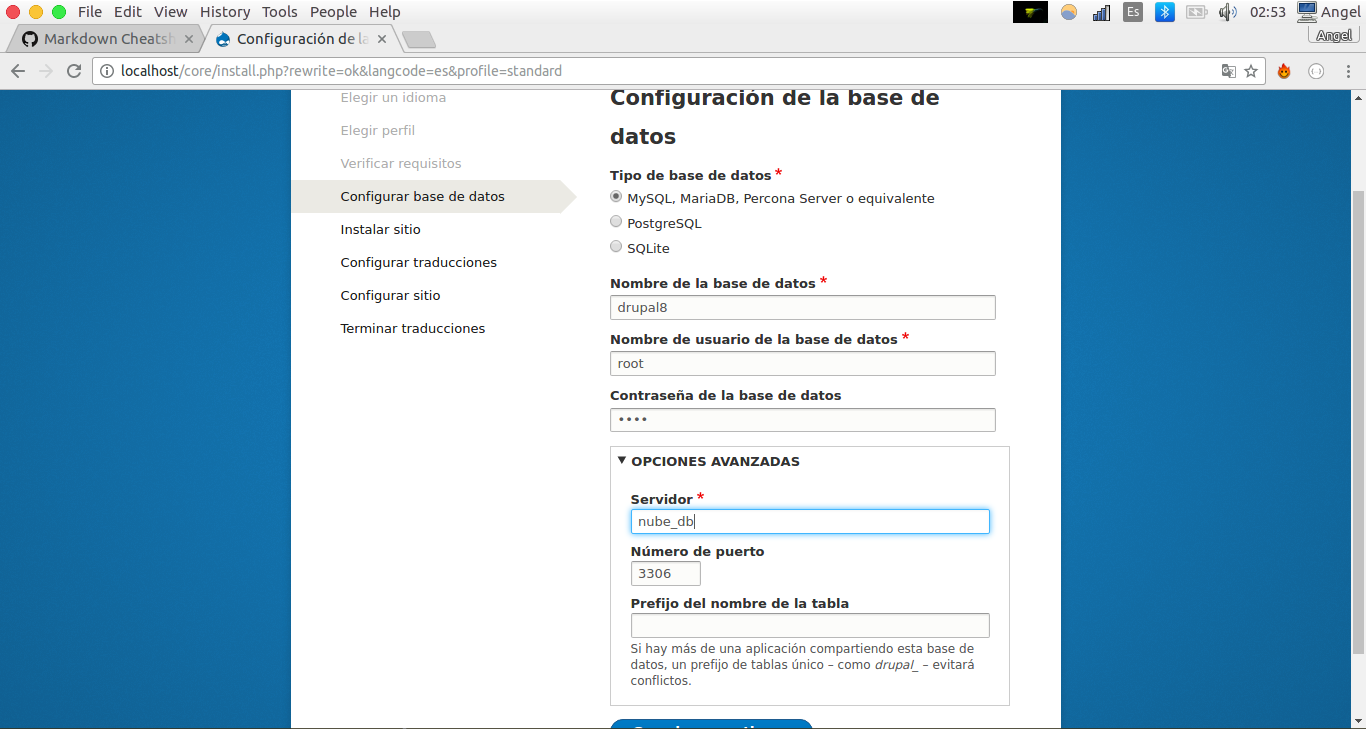
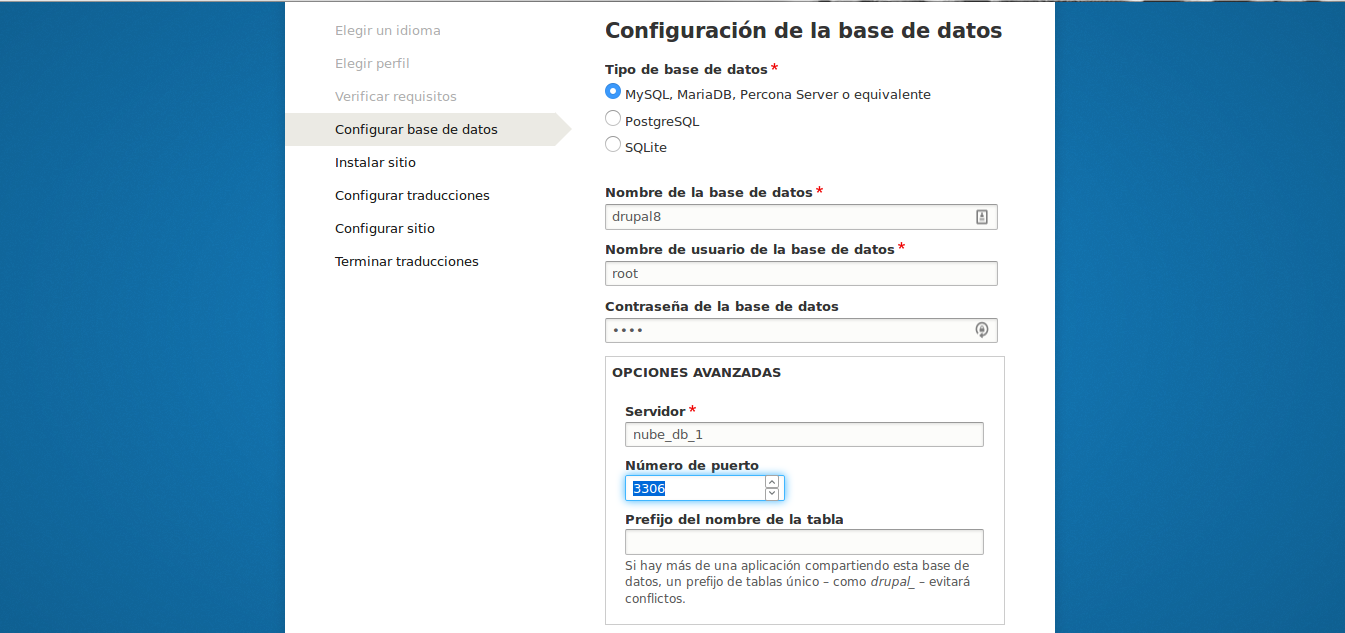
Change readme file

Changed region(s): [[0.0, 0.0, 1.0, 1.0]]

diff --git a/README.md b/README.md
@@ -18,15 +18,31 @@ Drupal development environment using [Docker Compose](https://docs.docker.com/co
 
 1. Run `docker-compose build` please wait a few minutes, docker need download images, and build the new base images.
 
+  ![img_1](https://github.com/anheru88/Drupal8-Docker-Compose/blob/master/images/image_1.png?raw=true)
+
 2. Run `docker-compose up -d` and create the new containers.
+
+  ![img_2](https://github.com/anheru88/Drupal8-Docker-Compose/blob/master/images/image_2.png?raw=true)
 
 3. Run `docker ps` and see the list of containers running in your machine.
 
+  ![img_3](https://github.com/anheru88/Drupal8-Docker-Compose/blob/master/images/image_3.png?raw=true)
+
 4. Visit [`http://localhost`](http://localhost) in your browser.
+
+  ![img_4](https://github.com/anheru88/Drupal8-Docker-Compose/blob/master/images/image_4.png?raw=true)
 
 5. Configure your Drupal Site.
 
-6. Enjoy.
+  ![img_5](https://github.com/anheru88/Drupal8-Docker-Compose/blob/master/images/image_5.png?raw=true)
+
+6. Be sure the name of the machine its same the `docker ps` list like this: `nube_db_1`
+
+8. By default the password of the database is `root`, and the database name is `drupal8`, if you need change this, only go to `docker-compose.yml` file and edit.
+
+7. Enjoy.
+
+  ![img_6](https://github.com/anheru88/Drupal8-Docker-Compose/blob/master/images/image_6.png?raw=true)
 
 ## License
 
